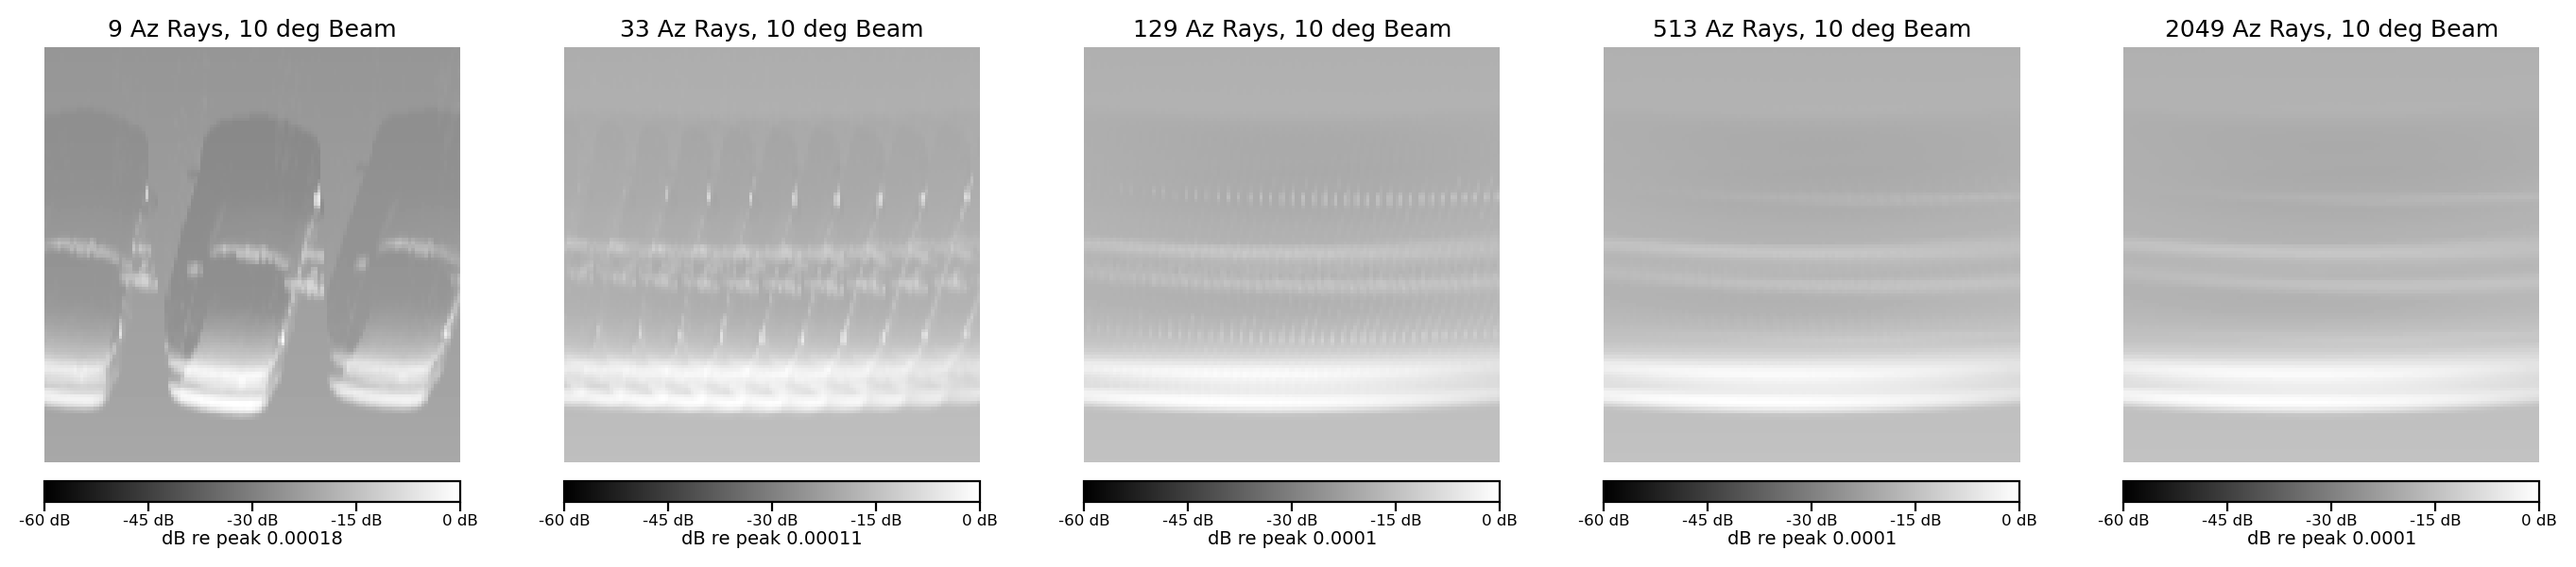
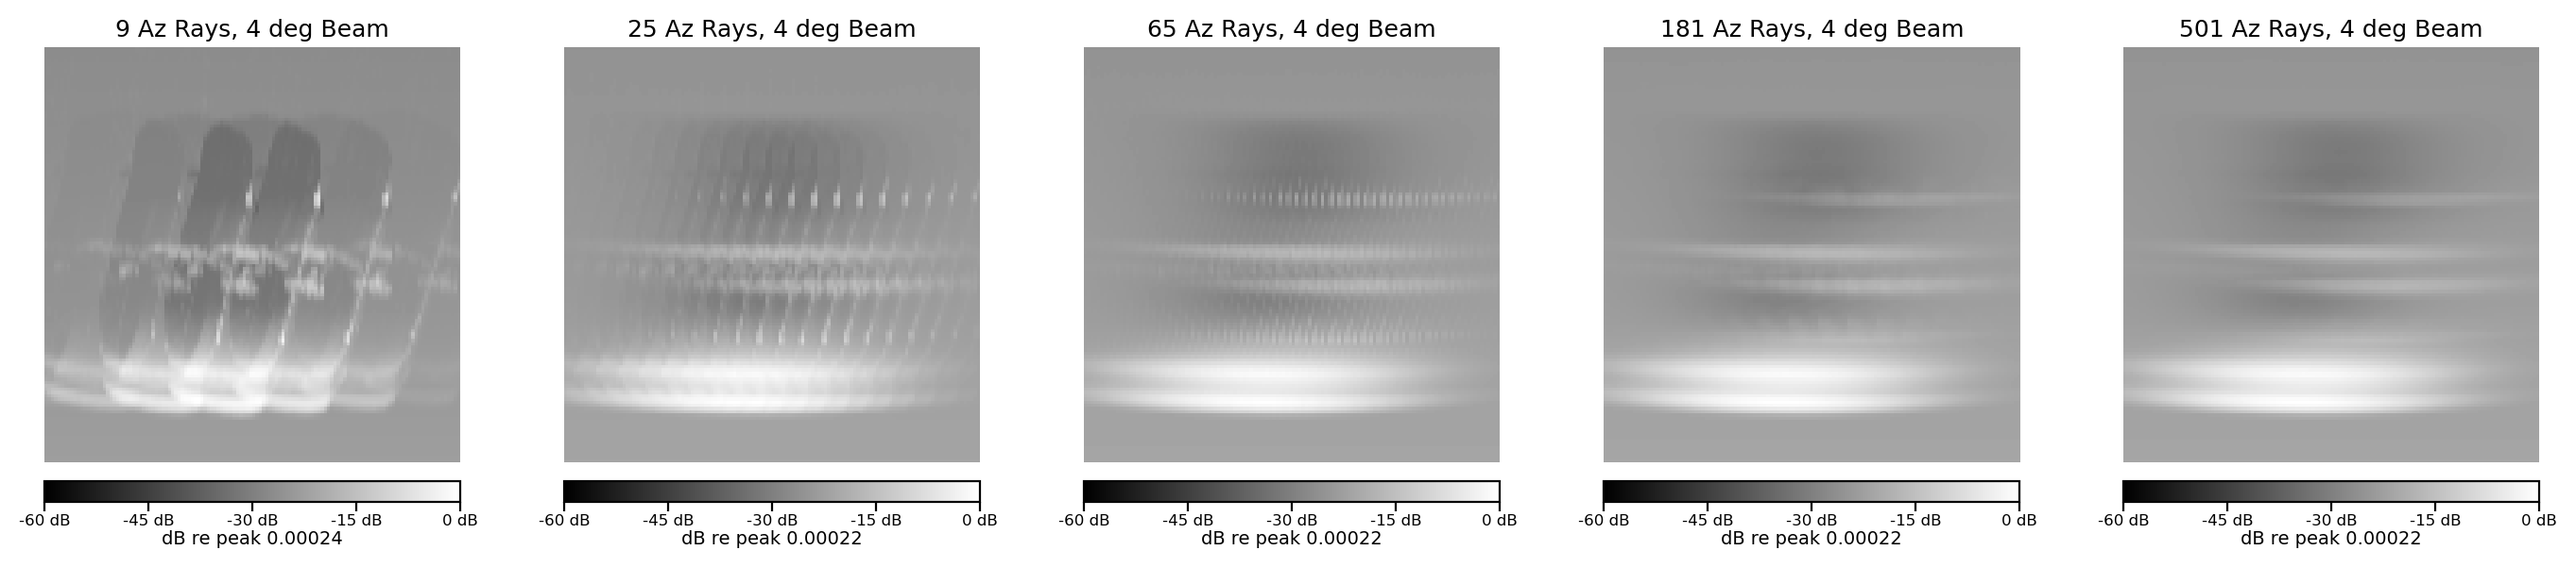
az ray sweep: 4 deg beam, 9-501 rays
Claude-Session: https://claude.ai/code/session_01GGmVrkSgyd4LF9qZZbmMeN

diff --git a/latex/main.tex b/latex/main.tex
@@ -883,26 +883,27 @@ them fixed and choose $R_w$ by (\ref{eq:ss-az-rays}). When the beam covers about
 boresight ray suffices, which is why the defaults of Table \ref{tab:sss-params} use $R_w = 1$ with
 $\beta = 0.1^\circ$, where $\rho\beta$ is $1.4$ pixels.
 
-In Figure \ref{fig:ss-az-rays}, we hold a wide beam of $\beta = 10^\circ$ and vary $R_w$ from $9$
-to $2049$, with the other parameters at the defaults of Table \ref{tab:sss-params}. The fan then
-spans $30^\circ$, and (\ref{eq:ss-az-rays}) asks for $R_w > 450$. At the range of the car, the
-copies are $52$, $13$, $3.3$, $0.8$, and $0.2$ pixels apart. Each panel is in dB relative to its own
+In Figure \ref{fig:ss-az-rays}, we hold a wide beam of $\beta = 4^\circ$ and vary $R_w$ from $9$
+to $501$, with the other parameters at the defaults of Table \ref{tab:sss-params}. The fan then
+spans $12^\circ$, and (\ref{eq:ss-az-rays}) asks for $R_w > 182$. At the range of the car, the
+copies are $21$, $7.0$, $2.6$, $0.9$, and $0.3$ pixels apart. Each panel is in dB relative to its own
 peak, with a floor of $-60$~dB.
 
-At $9$ rays, the beam does not smear the car but repeats it: three copies of the car sit side by
-side along the track, and the along-track autocorrelation of its rows peaks at a lag of $50$
-pixels, against the $52$ predicted. At $33$ rays the copies overlap into a comb of faint repeats,
-and at $129$ they persist as fine vertical stripes across the car and its shadow. At $513$, above
-the bound of (\ref{eq:ss-az-rays}), the image is a smooth smear along the track. Relative to the
-$2049$-ray image, the $L_2$ error falls from $56\%$ at $9$ rays to $11\%$, $2.8\%$, and $0.4\%$ at $513$. Too few
+At $9$ rays, the beam does not smear the car but repeats it: copies of the car sit side by side
+along the track, $1.5^\circ$ of the fan apart and dimmer the farther they are from boresight, and the
+along-track autocorrelation of its rows peaks at a lag of $19$ pixels, against the $21$ predicted.
+At $25$ rays the copies overlap into a comb of faint repeats, and at $65$ they persist as fine
+vertical stripes across the car and its shadow. At $181$, at the bound of (\ref{eq:ss-az-rays}),
+the image is a smooth smear along the track. Relative to the $501$-ray image, the $L_2$ error falls
+from $25\%$ at $9$ rays to $7.5\%$, $2.9\%$, and $0.8\%$ at $181$. Too few
 rays thus do not produce a blurrier image, but a wrong one whose repeats could be mistaken for
 real targets, and the number of rays needed grows with both the beam width and the range.
 
 \begin{figure}[H]
   \centering
   \includegraphics[trim=0 0 0 0, clip, width=\textwidth]{figs/side_scan_stitched_num_ray_width.png}
-  \caption{Side-scan sonar images of a car with a $10^\circ$ beam as the number of azimuth rays
-  $R_w$ grows from $9$ to $2049$. Along-track position runs horizontally and slant range
+  \caption{Side-scan sonar images of a car with a $4^\circ$ beam as the number of azimuth rays
+  $R_w$ grows from $9$ to $501$. Along-track position runs horizontally and slant range
   vertically, with near range at the bottom. With few rays, each ray images the scene separately,
   and the beam repeats the car along the track instead of smearing it. Each panel is in dB relative
   to its own peak, printed beneath its colorbar.}

diff --git a/sss_paper_figures.py b/sss_paper_figures.py
@@ -40,12 +40,12 @@ def _sss_experiments():
         custom_title_strings=['Beam Width: %.2f deg' % b for b in beam_width_vals],
     )
 
-    # Azimuth ray count sweep at a fixed 10 deg beam. The fan's rays sit at fixed, evenly spaced
+    # Azimuth ray count sweep at a fixed 4 deg beam. The fan's rays sit at fixed, evenly spaced
     # angles over 3 beam widths, so each one images the scene once, shifted along track by range *
     # its angle: too few rays and the beam spread is a few repeats of the scene, not a smear.
-    # 2*4**p + 1 keeps one ray on boresight; at range 7.5 the copies are 52, 13, 3.3, 0.8, 0.2 pixels apart
-    ray_width_beam_deg = 10.0
-    ray_width_vals = [2 * 4 ** p + 1 for p in range(1, 6)]  # 9 .. 2049 -> spacings 3.75 .. 0.015 deg
+    # Odd counts keep one ray on boresight; at range 7.5 the copies are 21, 7, 2.6, 0.9, 0.3 pixels apart
+    ray_width_beam_deg = 4.0
+    ray_width_vals = [9, 25, 65, 181, 501]  # 181 is the ~182 ray bound for a smooth image at 4 deg
     num_ray_width = dict(
         name='num_ray_width',
         vary={'num_ray_width': ray_width_vals},
